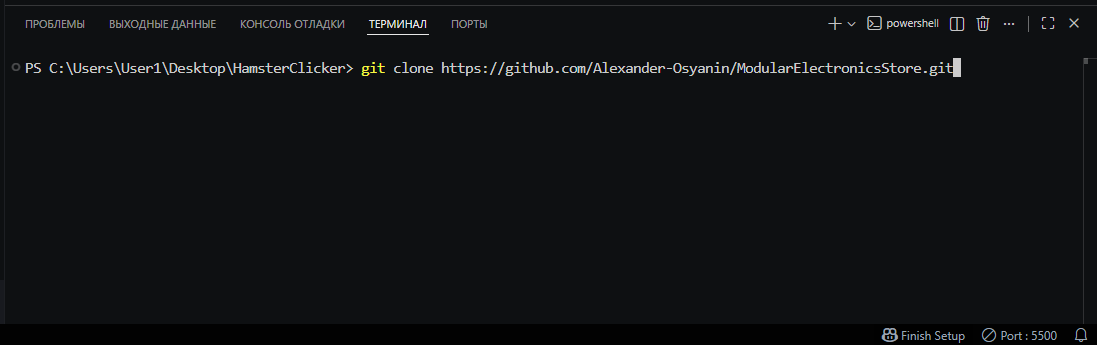
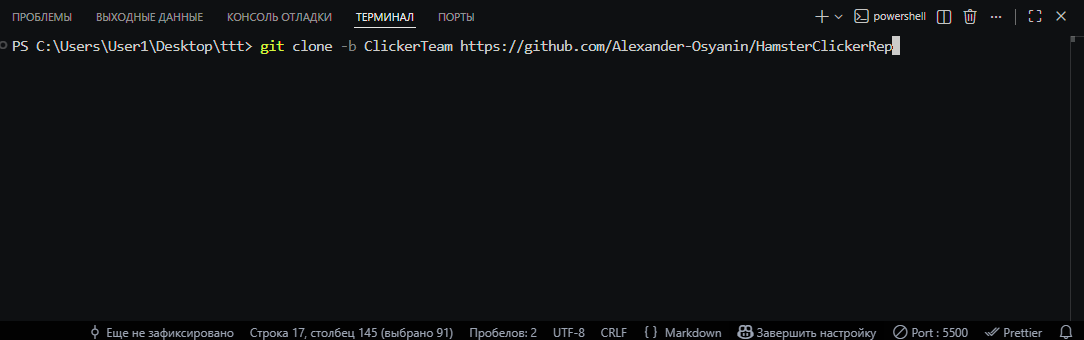
Fix: paths and README

Changed region(s): [[0.0, 0.0294, 0.8828, 0.2353], [0.0609, 0.9412, 1.0, 1.0], [0.7611, 0.0, 1.0, 0.1176]]

diff --git a/style/global.css b/style/global.css
@@ -8,7 +8,7 @@
 body {
   font-family: "Arial", sans-serif;
   background: linear-gradient(135deg, #ff9a56 0%, #ffcd56 100%);
-  background-image: url("/img/money.png");
+  background-image: url("/HamsterClickerRep/img/money.png");
   background-position: center;
   background-repeat: no-repeat;
   background-size: 100%;

diff --git a/style/components.css b/style/components.css
@@ -34,7 +34,7 @@
   display: block;
   box-shadow: 0 8px 20px rgba(255, 107, 53, 0.4);
   transition: all 0.1s ease;
-  background-image: url("/img/hamster.png");
+  background-image: url("/HamsterClickerRep/img/hamster.png");
   background-position: center;
   background-repeat: no-repeat;
   background-size: 100%;

diff --git a/index.html b/index.html
@@ -22,6 +22,6 @@
 
       <div class="footer">💾 Прогресс автоматически сохраняется</div>
     </div>
-    <script type="module" src="/module/game.js"></script>
+    <script type="module" src="../HamsterClickerRep/module/game.js"></script>
   </body>
 </html>

diff --git a/README.md b/README.md
@@ -14,7 +14,7 @@
 
 ![guide1](img/guide/guide1.png)
 
-3. В терминале вашего редактора кода пишете команду `git clone https://github.com/Alexander-Osyanin/HamsterClicker`
+3. В терминале вашего редактора кода пишете команду `git clone -b (название нужной ветки) https://github.com/Alexander-Osyanin/HamsterClickerRep`
 
 ![guide2](img/guide/guide2.png)
 
